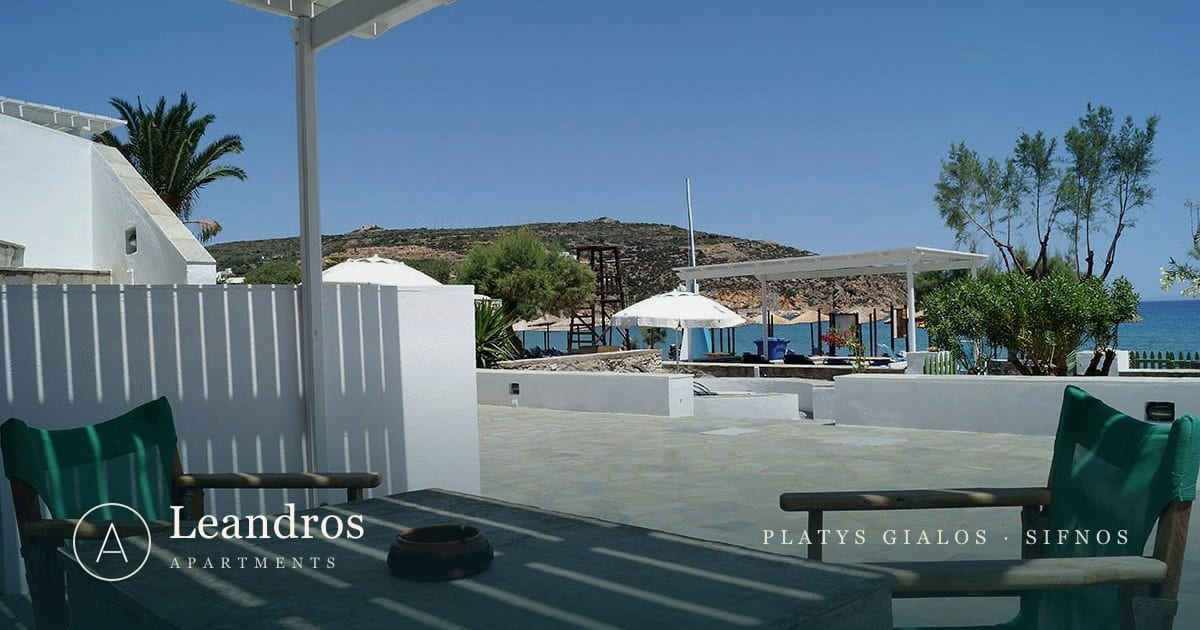
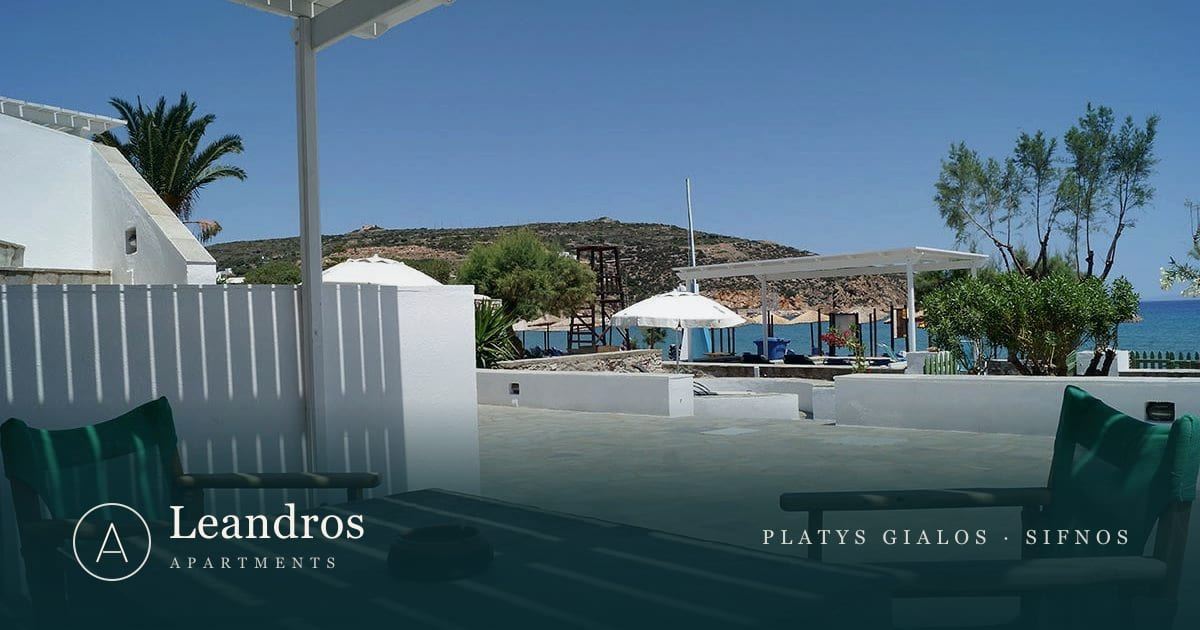
chore: sharpen OG cards, Greek badge case, pin Node 24
- Give social cards a real lower-third so the wordmark never sits on a white wall
- Sentence-case the Greek badge with the rest of the Greek typography
- Pin Node 24: CI passes on 24 and fails astro check on 22

diff --git a/src/styles/global.css b/src/styles/global.css
@@ -770,6 +770,7 @@ html[lang^='el'] .rates__number,
 html[lang^='el'] .contact-card__subtitle,
 html[lang^='el'] .avail__field label,
 html[lang^='el'] .lang__link,
+html[lang^='el'] .badge-round,
 html[lang^='el'] .notfound__attempted {
   text-transform: none;
   letter-spacing: 0.05em;

diff --git a/README.md b/README.md
@@ -52,7 +52,7 @@ npm run preview      # serve dist/ locally
 npm run check        # Astro + TypeScript diagnostics
 ```
 
-Node **22+** is required (Astro 7).
+Node **24** is required — CI runs on 24, and the Astro 7 toolchain does not pass its own type-check on Node 22.
 
 ### Useful maintenance scripts
 
